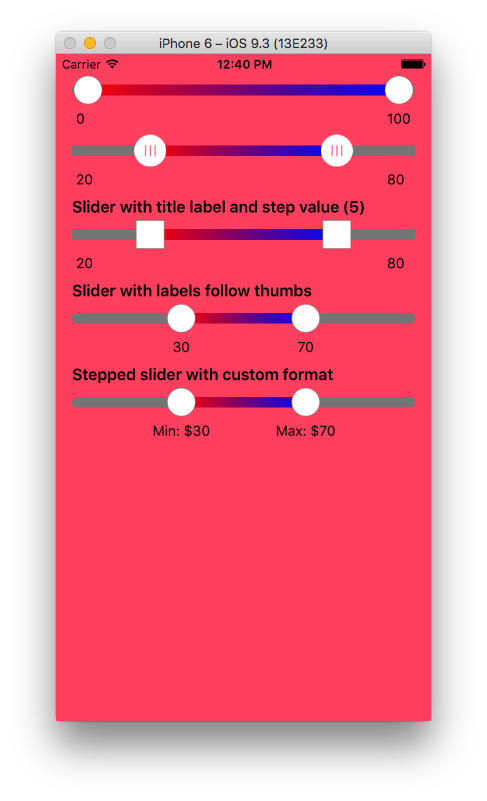
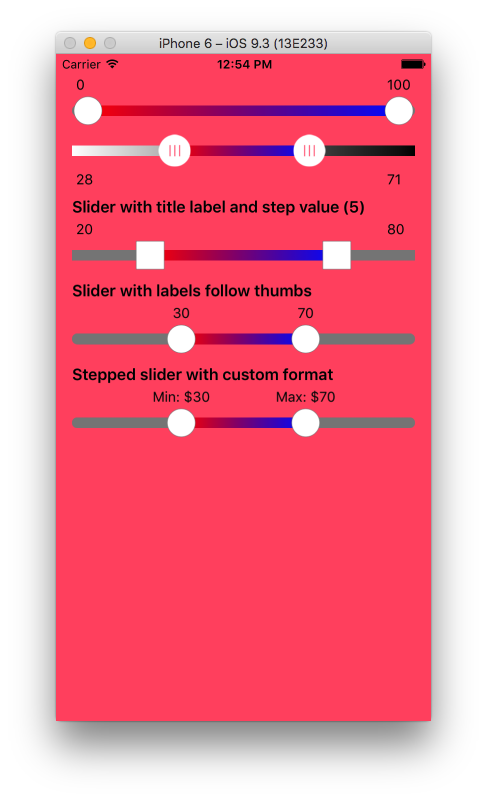
Support Thumb Label Position { ABOVE or BELOW }

Changed region(s): [[0.154, 0.3745, 0.8624, 0.5618], [0.154, 0.0624, 0.8624, 0.2497], [0.154, 0.2497, 0.8624, 0.3433]]

diff --git a/NHRangeSlider/NHRangeSlider/NHRangeSliderView.swift b/NHRangeSlider/NHRangeSlider/NHRangeSliderView.swift
@@ -9,6 +9,11 @@
 import UIKit
 
 /// enum for label positions
+public enum NHSliderLabelPosition : Int {
+    case ABOVE
+    case BELOW
+}
+
 public enum NHSliderLabelStyle : Int {
     /// lower and upper labels stick to the left and right of slider
     case STICKY
@@ -63,6 +68,9 @@ open class NHRangeSliderView: UIView {
     
     /// vertical spacing
     open var spacing: CGFloat = 4.0
+    
+    /// 
+    open var thumbLabelPosition: NHSliderLabelPosition = .ABOVE
     
     /// position of thumb labels. Set to STICKY to stick to left and right positions. Set to FOLLOW to follow left and right thumbs
     open var thumbLabelStyle: NHSliderLabelStyle = .STICKY
@@ -294,10 +302,17 @@ open class NHRangeSliderView: UIView {
                 titleLabelMaxY = titleLabel.frame.origin.y + titleLabel.frame.size.height
             }
             
-            rangeSlider.frame = CGRect(x: 0,
-                                       y: titleLabelMaxY /* + lowerLabel.font.lineHeight + self.spacing */, // 레이블을 아래로 내린다.
-                                       width: commonWidth ,
-                                       height: thumbSize )
+            if self.thumbLabelPosition == .ABOVE {
+                rangeSlider.frame = CGRect(x: 0,
+                                           y: titleLabelMaxY + lowerLabel.font.lineHeight + self.spacing,
+                                           width: commonWidth ,
+                                           height: thumbSize )
+            } else {
+                rangeSlider.frame = CGRect(x: 0,
+                                           y: titleLabelMaxY /* + lowerLabel.font.lineHeight + self.spacing */, // 레이블을 아래로 내린다.
+                    width: commonWidth ,
+                    height: thumbSize )
+            }
 
             let lowerWidth = self.estimatelabelSize(font: lowerLabel.font, string: lowerLabel.text!, constrainedToWidth: Double(commonWidth)).width
             let upperWidth = self.estimatelabelSize(font: upperLabel.font, string: upperLabel.text!, constrainedToWidth: Double(commonWidth)).width
@@ -316,15 +331,29 @@ open class NHRangeSliderView: UIView {
                 upperLabelX = rangeSlider.frame.origin.x + rangeSlider.frame.size.width - thumbSize + self.spacing
             }
             
-            lowerLabel.frame = CGRect(      x: lowerLabelX,
-                                            y: titleLabelMaxY + rangeSlider.frame.size.height + self.spacing,
-                                            width: lowerWidth ,
-                                            height: lowerLabel.font.lineHeight /* + self.spacing */ )
             
-            upperLabel.frame = CGRect(      x: upperLabelX,
-                                            y: titleLabelMaxY + rangeSlider.frame.size.height + self.spacing,
-                                            width: upperWidth ,
-                                            height: upperLabel.font.lineHeight /* + self.spacing */ )
+            if self.thumbLabelPosition == .ABOVE {
+                lowerLabel.frame = CGRect(      x: lowerLabelX,
+                                                y: titleLabelMaxY,
+                                                width: lowerWidth ,
+                                                height: lowerLabel.font.lineHeight + self.spacing )
+                
+                upperLabel.frame = CGRect(      x: upperLabelX,
+                                                y: titleLabelMaxY,
+                                                width: upperWidth ,
+                                                height: upperLabel.font.lineHeight + self.spacing )
+                
+            } else {
+                lowerLabel.frame = CGRect(      x: lowerLabelX,
+                                                y: titleLabelMaxY + rangeSlider.frame.size.height + self.spacing,
+                                                width: lowerWidth ,
+                                                height: lowerLabel.font.lineHeight )
+                
+                upperLabel.frame = CGRect(      x: upperLabelX,
+                                                y: titleLabelMaxY + rangeSlider.frame.size.height + self.spacing,
+                                                width: upperWidth ,
+                                                height: upperLabel.font.lineHeight )
+            }
             
         }
         

diff --git a/SliderExample/SliderExample/ViewController.swift b/SliderExample/SliderExample/ViewController.swift
@@ -24,10 +24,14 @@ class ViewController: UIViewController {
                                                                width: sliderView.frame.size.width,
                                                                height: sliderView.frame.size.height) )
         sliderSquareView.curvaceousness = 0.0
-        //sliderSquareView.trackHighlightTintColor = UIColor.red
+        sliderSquareView.trackHighlightStartColor = UIColor.red
+        sliderSquareView.trackHighlightEndColor = UIColor.blue
+        sliderSquareView.trackStartColor = UIColor.white
+        sliderSquareView.trackEndColor = UIColor.black
         sliderSquareView.lowerValue = 20.0
         sliderSquareView.upperValue = 80.0
         sliderSquareView.thumbImage = UIImage(named: "slider_thumb")
+        sliderSquareView.thumbLabelPosition = .BELOW
         sliderSquareView.sizeToFit()
         self.view.addSubview(sliderSquareView)
         

diff --git a/README.md b/README.md
@@ -9,6 +9,7 @@ A custom range slider in Swift. Well-documented with examples. Forked from [Rang
  * Support Image for Thumbs.
  * Support Gradient for track bar.
  * Support Gradient in track highlight range.
+ * Support Thumb Label Position { ABOVE or BELOW }
 
 <img src="screenshot2.png" />
 
